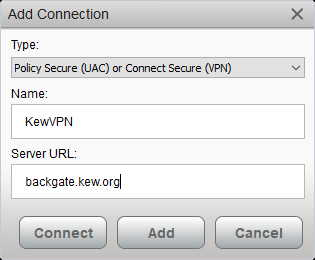
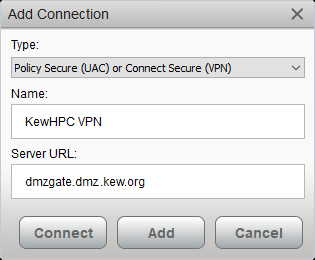
correcting address for DMZ VPN in text and images

Changed region(s): [[0.0857, 0.6769, 0.4857, 0.7385], [0.1429, 0.4308, 0.3429, 0.4923]]

diff --git a/docs/remote_access.md b/docs/remote_access.md
@@ -5,7 +5,7 @@ To use Kew's computational resources remotely you'll need to connect to one of t
 
 ## Kew VPN 
 
-Kew Provides 2 VPN services for Kew staff to connect to Kew services remotely from their Kew issued laptop.
+Kew Provides 2 VPN services for Kew staff to connect to Kew services remotely from their Kew issued laptop. To access KewHPC from a non-Kew machine please use the DMZ VPN
 
 For access to either you'll need to contact [IT services](mailto:support@kew.org)
 
@@ -51,7 +51,7 @@ The enter your Kew username and password and "Sign In".
 
 This is a VPN service specifically for connecting to KewHPC for both Kew staff and external collaborators. It uses Pulse Secure so if you already have the Pulse Secure Client installed skip to the last step.
 
-Using any web browser go to [dmzgate.kew.org](https://dmzgate.kew.org) and log in with your kew username prefixed with "AD\" (e.g. AD\usr00kg ) and password.
+Using any web browser go to [https://dmzgate.dmz.kew.org](https://dmzgate.dmz.kew.org) and log in with your kew username prefixed with "AD\" (e.g. AD\usr00kg ) and password.
 
 Once logged in Click the "start" button.
 
@@ -65,7 +65,7 @@ Once Pulsesecure is installed open pulse secure if its not already then add a ne
 
 ![File > Connections > Add](PulseSecure3.jpg)
 
-In the new window name your connection and set the server URL to dmzgate.kew.org and click "Connect".
+In the new window name your connection and set the server URL to "dmzgate.dmz.kew.org" and click "Connect".
 
 ![dmzgate.kew.org](PulseSecureDMZ2.jpg)
 
